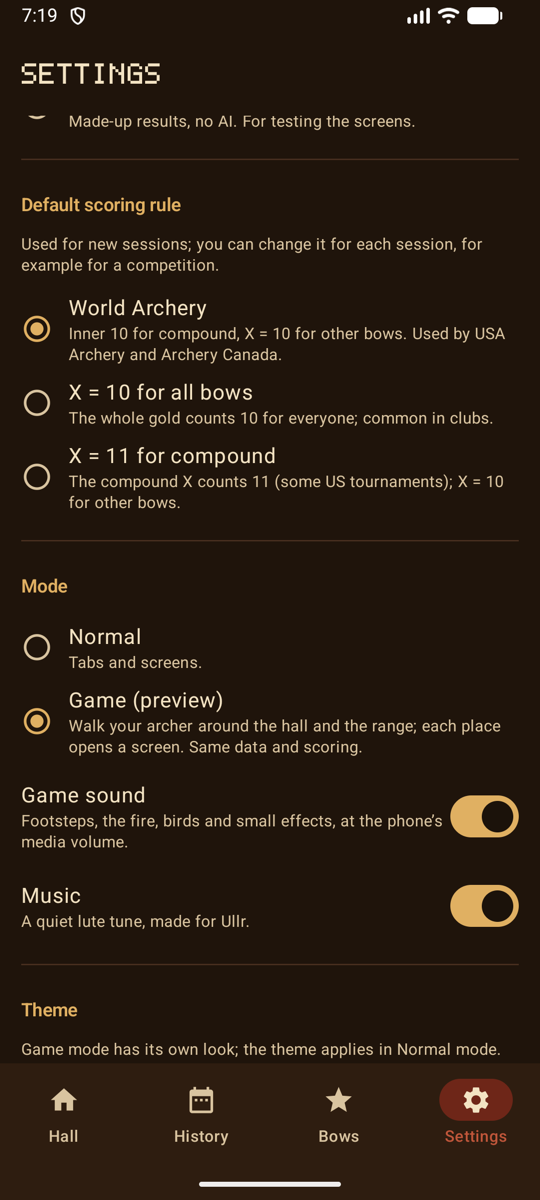
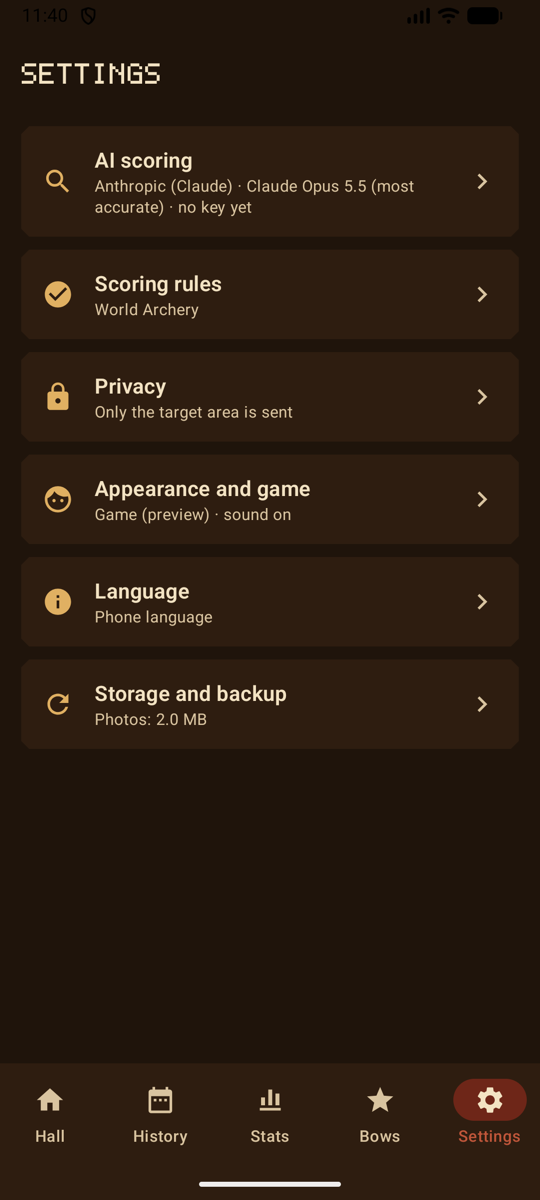
Update Ullr site from ullr@a38a737

diff --git a/ullr/docs/guide.fr.md b/ullr/docs/guide.fr.md
@@ -23,7 +23,7 @@ L'application suit la langue de votre téléphone (français ou anglais). Sur An
 
 ## Choisir la méthode de comptage
 
-**Réglages → Méthode de comptage** :
+**Réglages → Comptage par IA → Méthode de comptage** :
 
 | Méthode | Il vous faut | Fonctionnement |
 |---------|--------------|----------------|
@@ -32,9 +32,9 @@ L'application suit la langue de votre téléphone (français ou anglais). Sur An
 
 ### Choisir le service d'IA
 
-![Réglages : la méthode de comptage, puis le choix du service d'IA, puis la clé du service choisi.](images/screenshots/fr/settings.png){ .shot width="240" }
+![La page Comptage par IA des réglages : ce que fait le comptage, la méthode, puis le choix du service d'IA.](images/screenshots/fr/settings.png){ .shot width="240" }
 
-Avec la méthode API, **Réglages → Service d’IA** propose :
+Avec la méthode API, **Réglages → Comptage par IA → Service d’IA** propose :
 
 | Service | Modèles |
 |---------|---------|
@@ -50,12 +50,12 @@ Chaque service garde sa propre clé : vous pouvez changer de service et revenir 
 - **OpenAI :** créez une clé sur platform.openai.com → API keys. Elle commence par `sk-`.
 - **Google Gemini :** créez une clé dans Google AI Studio (aistudio.google.com → Get API key), dans un projet avec la facturation activée. Elle commence par `AIza`.
 
-Puis, dans Ullr : **Réglages → Clé API** du service, collez la clé, **Enregistrer la clé**, puis **Vérifier la clé**. L'application vous dit si la clé fonctionne.
+Puis, dans Ullr : **Réglages → Comptage par IA → Clé API** du service, collez la clé, **Enregistrer la clé**, puis **Vérifier la clé**. L'application vous dit si la clé fonctionne.
 
 !!! tip "Protégez votre clé"
     Créez une clé réservée à Ullr et fixez une limite de dépenses mensuelle auprès du service. Si vous perdez le téléphone, supprimez la clé chez le service : personne ne pourra dépenser plus que la limite.
 
-La clé est chiffrée sur le téléphone. Elle n'est plus jamais affichée, et **Supprimer la clé** l'efface.
+La clé est chiffrée sur le téléphone. Elle n'est plus jamais affichée, et **Supprimer la clé** l'efface, après confirmation.
 
 **Coût :** vous payez le service directement, une requête par volée. Estimations, en attendant de les mesurer sur de vraies photos :
 
@@ -120,7 +120,7 @@ Chaque flèche porte un repère blanc avec sa zone. Écartez deux doigts pour zo
 - **Cercle orange :** vérifiez cette flèche. Elle est près d'une ligne, l'IA n'était pas sûre, ou deux flèches sont dans le même spot d'un trispot.
 - **Touchez une flèche** pour la sélectionner, puis touchez la bonne zone. Le deuxième choix de l'IA est mis en évidence.
 - **Ajouter une flèche** : touchez le bouton, puis l'endroit de la flèche sur la photo.
-- **Retirer cette flèche** : pour la flèche d'un autre archer, ou une flèche comptée deux fois.
+- **Retirer cette flèche** : pour la flèche d'un autre archer, ou une flèche comptée deux fois. L'application demande d'abord confirmation.
 - Un bandeau vous prévient quand le nombre de flèches trouvées n'est pas le nombre tiré, ou quand la photo pose problème (reflet, flou, blason coupé).
 
 Touchez ensuite **Valider · volée suivante** pour revenir directement à l'appareil photo, ou **Valider et revenir à la séance**.
@@ -159,7 +159,7 @@ Touchez ensuite **Valider · volée suivante** pour revenir directement à l'app
 
 **Règle de la ligne (toutes les règles) :** une flèche qui touche la ligne entre deux zones prend la zone la plus haute. Une flèche dans le 8 qui touche la ligne du 9 vaut 9.
 
-**Réglages → Règle de comptage par défaut** fixe la règle des nouvelles séances : **World Archery** (10 intérieur pour l'arc à poulies, X = 10 pour les autres arcs ; par défaut), **X = 10 pour tous les arcs**, ou **X = 11 pour l'arc à poulies**.
+**Réglages → Règles de comptage** fixe la règle des nouvelles séances : **World Archery** (10 intérieur pour l'arc à poulies, X = 10 pour les autres arcs ; par défaut), **X = 10 pour tous les arcs**, ou **X = 11 pour l'arc à poulies**.
 
 ## Statistiques
 
@@ -186,7 +186,7 @@ L’onglet **Stats** (en mode jeu, l’**âtre**) montre ce qui compte à l’en
 
 <div class="shots" markdown>
 <figure markdown>
-![Liste des arcs : un arc recourbé et deux arcs à poulies avec puissance, allonge et valeurs par défaut.](images/screenshots/fr/bows.png){ .shot }
+![Liste des arcs : deux arcs recourbés et deux arcs à poulies, chacun marqué d’un petit dessin de son type, avec puissance, allonge et valeurs par défaut.](images/screenshots/fr/bows.png){ .shot }
 <figcaption>Vos arcs</figcaption>
 </figure>
 <figure markdown>
@@ -197,16 +197,18 @@ L’onglet **Stats** (en mode jeu, l’**âtre**) montre ce qui compte à l’en
 
 L'onglet **Arcs** liste vos arcs.
 
-- **Ajouter un arc :** nom et type d'arc. Pour un arc à poulies, vous pouvez partir d'une marque et d'un modèle du catalogue (PSE, Hoyt, Mathews, Bowtech). Il remplit le nom, montre les caractéristiques du modèle, et vous prévient si votre allonge sort de sa plage.
+- **Ajouter un arc :** nom et type d'arc. Chaque type a un petit dessin (arc nu ; arc recourbé avec viseur et stabilisateur ; arc à poulies avec ses cames) qui marque l'arc dans les listes, et le râtelier du jeu montre les mêmes formes. Pour un arc à poulies, vous pouvez partir d'une marque et d'un modèle du catalogue (PSE, Hoyt, Mathews, Bowtech). Il remplit le nom, montre les caractéristiques du modèle, et vous prévient si votre allonge sort de sa plage.
 - **Puissance** (lb) et **allonge** (pouces). Les deux acceptent une virgule ou un point.
 - **Description des flèches**, par exemple « tubes noirs, plumes orange ». Elle est envoyée avec la photo pour que l'IA ignore les flèches des autres archers sur la même butte.
 - **Valeurs par défaut :** blason, blasons sur la butte, distance et flèches par volée, pour remplir les nouvelles séances.
 
-Modifier un arc plus tard ne change pas les séances passées.
+Modifier un arc plus tard ne change pas les séances passées. **Retirer cet arc** demande d'abord confirmation ; les séances passées avec cet arc sont conservées.
+
+**Rien n'est supprimé sans votre accord.** Retirer un arc, une clé ou une flèche, supprimer une volée ou une séance, libérer de l'espace et restaurer un export demandent tous une confirmation, en mode normal comme en mode jeu. **Garder** annule.
 
 ## Mode jeu
 
-**Réglages → Mode → Jeu (aperçu)** transforme Ullr en petit jeu en pixel art : votre archer se rend au râtelier, au mur des trophées, au bureau ou à la ligne de tir pour ouvrir vos arcs, votre historique, les réglages ou une séance. **Endroits** (☰) ouvre n’importe quel endroit sans marcher, et **Tirer maintenant** ouvre directement l’appareil photo. Au **miroir**, habillez votre archer et choisissez un compagnon. Le son joue au volume multimédia ; le bouton haut-parleur le coupe. Tous les détails : [Mode jeu](game.md).
+**Réglages → Apparence et jeu → Jeu (aperçu)** transforme Ullr en petit jeu en pixel art : votre archer se rend au râtelier, au mur des trophées, au bureau ou à la ligne de tir pour ouvrir vos arcs, votre historique, les réglages ou une séance. **Endroits** (☰) ouvre n’importe quel endroit sans marcher, et **Tirer maintenant** ouvre directement l’appareil photo. Au **miroir**, habillez votre archer et choisissez un compagnon. Le son joue au volume multimédia ; le bouton haut-parleur le coupe. Tous les détails : [Mode jeu](game.md).
 
 ![La maison en mode jeu.](images/screenshots/fr/game-hall.png){ .shot width="220" }
 
@@ -251,4 +253,4 @@ Modifier un arc plus tard ne change pas les séances passées.
 
 **L'application s'est fermée pendant une séance.** Rien n'est perdu. La séance apparaît au tableau de bord avec **Reprendre**, et les volées en attente sont remises en file.
 
-**Quelle place prennent les photos ?** Environ 0,6 à 1,2 Mo par volée. **Réglages → Stockage** affiche le total.
+**Quelle place prennent les photos ?** Environ 0,6 à 1,2 Mo par volée. **Réglages → Stockage et sauvegarde** affiche le total.

diff --git a/ullr/docs/guide.md b/ullr/docs/guide.md
@@ -23,7 +23,7 @@ The app follows your phone's language (English or French). On Android 13 and lat
 
 ## Choose how ends are scored
 
-**Settings → Scoring method** (*Méthode de comptage*):
+**Settings → AI scoring → Scoring method** (*Réglages → Comptage par IA → Méthode de comptage*):
 
 | Method | You need | How it works |
 |--------|----------|--------------|
@@ -32,9 +32,9 @@ The app follows your phone's language (English or French). On Android 13 and lat
 
 ### Choose the AI service
 
-![Settings: scoring method, then the choice of AI service, then the key for the chosen service.](images/screenshots/settings.png){ .shot width="240" }
+![The AI scoring page of Settings: what scoring does, the scoring method, then the choice of AI service.](images/screenshots/settings.png){ .shot width="240" }
 
-With the API method, **Settings → AI service** (*Service d’IA*) offers:
+With the API method, **Settings → AI scoring → AI service** (*Service d’IA*) offers:
 
 | Service | Models |
 |---------|--------|
@@ -50,12 +50,12 @@ Each service keeps its own key, so you can switch and come back without typing a
 - **OpenAI:** create a key at platform.openai.com → API keys. It starts with `sk-`.
 - **Google Gemini:** create a key in Google AI Studio (aistudio.google.com → Get API key), in a project with billing turned on. It starts with `AIza`.
 
-Then, in Ullr: **Settings → API key** for that service, paste the key, **Save key** (*Enregistrer la clé*), and **Check key** (*Vérifier la clé*). The app tells you whether the key works.
+Then, in Ullr: **Settings → AI scoring → API key** for that service, paste the key, **Save key** (*Enregistrer la clé*), and **Check key** (*Vérifier la clé*). The app tells you whether the key works.
 
 !!! tip "Protect your key"
     Create a key just for Ullr, and set a low monthly spending limit with the service. If the phone is lost, delete the key there, and nobody can spend more than the limit.
 
-The key is stored encrypted on the phone. It is never shown again, and **Remove key** (*Supprimer la clé*) deletes it.
+The key is stored encrypted on the phone. It is never shown again, and **Remove key** (*Supprimer la clé*) deletes it, after asking.
 
 **Cost:** you pay the service directly, one request per end. Rough estimates until they are measured on real photos:
 
@@ -120,7 +120,7 @@ Each arrow has a white marker with its ring. Pinch to zoom, drag to move, double
 - **Amber circle:** check this arrow. It's near a line, the AI wasn't confident, or two arrows are in the same spot of a 3-spot face.
 - **Tap an arrow** to select it, then tap the right ring. The AI's second choice is highlighted.
 - **Add an arrow** (*Ajouter une flèche*): tap the button, then tap where the arrow is on the photo.
-- **Remove this arrow** (*Retirer cette flèche*): for another archer's arrow, or one counted twice.
+- **Remove this arrow** (*Retirer cette flèche*): for another archer's arrow, or one counted twice. The app asks first.
 - A banner warns you when the number of arrows found isn't the number shot, or when the photo has problems (glare, blur, face cut off).
 
 Then tap **Confirm · shoot next end** (*Valider · volée suivante*) to go straight back to the camera, or **Confirm and back to session**.
@@ -159,7 +159,7 @@ Then tap **Confirm · shoot next end** (*Valider · volée suivante*) to go stra
 
 **Line rule (all rules):** an arrow that touches the line between two zones scores the higher zone. An arrow in the 8 that touches the 8/9 line is a 9.
 
-**Settings → Default scoring rule** sets the rule new sessions start with: **World Archery** (inner 10 for compound, X = 10 for other bows; the default), **X = 10 for all bows**, or **X = 11 for compound**.
+**Settings → Scoring rules** (*Règles de comptage*) sets the rule new sessions start with: **World Archery** (inner 10 for compound, X = 10 for other bows; the default), **X = 10 for all bows**, or **X = 11 for compound**.
 
 ## Statistics
 
@@ -186,7 +186,7 @@ The **Stats** tab (in game mode, the **hearth**) shows what matters in training 
 
 <div class="shots" markdown>
 <figure markdown>
-![Bows list: a recurve and two compound bows with draw weight, draw length and defaults.](images/screenshots/bows.png){ .shot }
+![Bows list: two recurve and two compound bows, each marked with a small drawing of its type, with draw weight, draw length and defaults.](images/screenshots/bows.png){ .shot }
 <figcaption>Your bows</figcaption>
 </figure>
 <figure markdown>
@@ -197,16 +197,18 @@ The **Stats** tab (in game mode, the **hearth**) shows what matters in training 
 
 The **Bows** tab (*Arcs*) lists your bows.
 
-- **Add a bow:** name and bow type. For a compound, you can start from a brand and model in the built-in catalog (PSE, Hoyt, Mathews, Bowtech). It fills in the name, shows the model's specs, and warns you if your draw length is outside the model's range.
+- **Add a bow:** name and bow type. Each type has a small drawing (barebow; recurve with sight and stabilizer; compound with cams) that marks the bow in lists, and the game's bow rack shows the same shapes. For a compound, you can start from a brand and model in the built-in catalog (PSE, Hoyt, Mathews, Bowtech). It fills in the name, shows the model's specs, and warns you if your draw length is outside the model's range.
 - **Draw weight** (lb) and **draw length** (inches). Both accept a comma or a dot.
 - **Arrow description**, for example "black shafts, orange fletching". It's sent with the photo so the AI ignores other archers' arrows on the same boss.
 - **Defaults:** target face, paper faces, distance and arrows per end, used to fill in new sessions.
 
-Changing a bow later doesn't change past sessions.
+Changing a bow later doesn't change past sessions. **Remove this bow** asks first; past sessions shot with it are kept.
+
+**Nothing is removed without asking.** Removing a bow, a key or an arrow, deleting an end, discarding a session, freeing up space and restoring an export all ask for confirmation first, in normal and game mode. **Keep** (*Garder*) cancels.
 
 ## Game mode
 
-**Settings → Mode → Game (preview)** turns Ullr into a small pixel-art game: your archer walks to the bow rack, the trophy wall, the desk or the shooting line to open your bows, history, settings or a session. **Places** (☰) opens any place without walking, and **Shoot now** goes straight to the camera. At the **mirror**, dress your archer and choose a companion. Sound plays at the media volume; the speaker button turns it off. Full details: [Game mode](game.md).
+**Settings → Appearance and game → Game (preview)** turns Ullr into a small pixel-art game: your archer walks to the bow rack, the trophy wall, the desk or the shooting line to open your bows, history, settings or a session. **Places** (☰) opens any place without walking, and **Shoot now** goes straight to the camera. At the **mirror**, dress your archer and choose a companion. Sound plays at the media volume; the speaker button turns it off. Full details: [Game mode](game.md).
 
 ![The hall in game mode.](images/screenshots/game-hall.png){ .shot width="220" }
 
@@ -251,4 +253,4 @@ Changing a bow later doesn't change past sessions.
 
 **The app was closed during a session.** Nothing is lost. The session shows on the Dashboard with **Resume**, and ends waiting to be scored are queued again.
 
-**How much space do photos take?** About 0.6–1.2 MB per end. **Settings → Storage** shows the total.
+**How much space do photos take?** About 0.6–1.2 MB per end. **Settings → Storage and backup** shows the total.

diff --git a/ullr/docs/game.fr.md b/ullr/docs/game.fr.md
@@ -2,7 +2,7 @@
 
 Ullr s’utilise aussi autrement : **la même application, en petit jeu vidéo en pixel art.** Votre archer se promène dans une maison nordique et sur un pas de tir, et chaque endroit ouvre un écran. Vos arcs, vos séances et vos scores sont exactement les mêmes qu’en mode normal, et les écrans de comptage fonctionnent de la même façon.
 
-Activez-le dans **Réglages → Mode → Jeu (aperçu)**. **Normal** revient en arrière à tout moment, sans rien perdre.
+Activez-le dans **Réglages → Apparence et jeu → Jeu (aperçu)**. **Normal** revient en arrière à tout moment, sans rien perdre.
 
 <div class="shots" markdown>
 <figure markdown>
@@ -29,7 +29,7 @@ Activez-le dans **Réglages → Mode → Jeu (aperçu)**. **Normal** revient en 
 
 | Dans la maison | Ouvre |
 |----------------|-------|
-| **Râtelier à arcs** (vos propres arcs y sont accrochés, selon leur type) | Vos arcs |
+| **Râtelier à arcs** (vos propres arcs y sont accrochés, chacun dessiné selon son type : arc nu, arc recourbé avec viseur et stabilisateur, arc à poulies avec ses cames ; votre archer tient le même type) | Vos arcs |
 | **Mur des trophées** | Vos trophées : niveau, insignes et records personnels |
 | **Bureau** | Les réglages |
 | **Miroir** | Votre archer |
@@ -104,7 +104,7 @@ Seul le vrai tir rapporte : **10 points d’expérience** par volée confirmée,
 Des pas sur le plancher et dans l’herbe, un petit son quand vous choisissez un endroit, un carillon quand il s’ouvre, le grincement de la porte, le crépitement du feu dans la maison, le vent et les oiseaux sur le pas de tir, et un petit air de luth. Tout a été composé pour Ullr.
 
 - Le son joue au volume **multimédia** du téléphone, comme les autres jeux : les modes silencieux et vibreur coupent les appels et les notifications, pas les jeux.
-- Le **bouton haut-parleur**, en haut du jeu, coupe et remet le son. **Réglages → Sons du jeu** et **Musique** les coupent séparément.
+- Le **bouton haut-parleur**, en haut du jeu, coupe et remet le son. **Réglages → Apparence et jeu → Sons du jeu** et **Musique** les coupent séparément.
 - Le son s’arrête dès que l’application passe en arrière-plan.
 
 ## Tous les écrans au style du jeu
@@ -121,8 +121,8 @@ En mode jeu, chaque écran prend le style du jeu : bois sombre et or, lettres en
 <figcaption>Vos arcs</figcaption>
 </figure>
 <figure markdown>
-![Réglages au style du jeu : Mode Normal ou Jeu (aperçu), et les interrupteurs Sons du jeu et Musique.](images/screenshots/fr/game-settings.png){ .shot }
-<figcaption>Mode, sons et musique</figcaption>
+![Réglages au style du jeu : un menu Comptage par IA, Règles de comptage, Confidentialité, Apparence et jeu, Langue, et Stockage et sauvegarde.](images/screenshots/fr/game-settings.png){ .shot }
+<figcaption>Les réglages, regroupés par thème</figcaption>
 </figure>
 </div>
 

diff --git a/ullr/docs/game.md b/ullr/docs/game.md
@@ -2,7 +2,7 @@
 
 Ullr has a second way to use it: **the same app, as a small pixel-art video game.** Your archer walks around a Norse hall and an archery range, and each place opens a screen. Your bows, sessions and scores are exactly the same as in the normal mode, and the scoring screens work the same way.
 
-Turn it on in **Settings → Mode → Game (preview)** (*Réglages → Mode → Jeu (aperçu)*). **Normal** switches back at any time; nothing is lost either way.
+Turn it on in **Settings → Appearance and game → Game (preview)** (*Réglages → Apparence et jeu → Jeu (aperçu)*). **Normal** switches back at any time; nothing is lost either way.
 
 <div class="shots" markdown>
 <figure markdown>
@@ -29,7 +29,7 @@ Turn it on in **Settings → Mode → Game (preview)** (*Réglages → Mode → 
 
 | In the hall | Opens |
 |-------------|-------|
-| **Bow rack** (your own bows hang on it, by type) | Your bows |
+| **Bow rack** (your own bows hang on it, each drawn as its type: barebow, recurve with sight and stabilizer, compound with cams; your archer holds the same type) | Your bows |
 | **Trophy wall** | Your trophies: level, badges and personal bests |
 | **Writing desk** | Settings |
 | **Mirror** | Your archer |
@@ -104,7 +104,7 @@ Only real shooting earns anything: **10 experience** for each confirmed end, **3
 Footsteps on the wooden floor and on the grass, a small blip when you choose a place, a chime when it opens, the creak of the door, the crackle of the fire in the hall, wind and birds on the range, and a quiet lute tune. All of it was made for Ullr.
 
 - Sound plays at the phone's **media** volume, like other games: silent and vibrate mute calls and notifications, not games.
-- The **speaker button** at the top of the game turns the sound off and on. **Settings → Game sound** and **Music** turn them off separately.
+- The **speaker button** at the top of the game turns the sound off and on. **Settings → Appearance and game → Game sound** and **Music** turn them off separately.
 - Sound stops as soon as the app is in the background.
 
 ## Every screen in the game look
@@ -121,8 +121,8 @@ In game mode, every screen wears the game's style: dark wood and gold, pixel let
 <figcaption>Your bows</figcaption>
 </figure>
 <figure markdown>
-![Settings in the game look: Mode Normal or Game (preview), and the Game sound and Music switches.](images/screenshots/game-settings.png){ .shot }
-<figcaption>Mode, sound and music</figcaption>
+![Settings in the game look: a menu of AI scoring, Scoring rules, Privacy, Appearance and game, Language, and Storage and backup.](images/screenshots/game-settings.png){ .shot }
+<figcaption>Settings, grouped by topic</figcaption>
 </figure>
 </div>
 

diff --git a/ullr/docs/screenshots.md b/ullr/docs/screenshots.md
@@ -43,7 +43,7 @@ Taken with **Ullr Demo**, a version of the app filled with six months of made-up
 <figcaption><b>History.</b> Every session by month, filtered by bow.</figcaption>
 </figure>
 <figure markdown>
-![Bows list: a recurve and two compound bows with draw weight, draw length and defaults.](images/screenshots/bows.png){ .shot }
+![Bows list: two recurve and two compound bows, each marked with a small drawing of its type, with draw weight, draw length and defaults.](images/screenshots/bows.png){ .shot }
 <figcaption><b>Bows.</b> Each bow with its setup.</figcaption>
 </figure>
 <figure markdown>
@@ -56,11 +56,11 @@ Taken with **Ullr Demo**, a version of the app filled with six months of made-up
 
 <div class="shots" markdown>
 <figure markdown>
-![Settings: scoring method AI service API, and the choice of service.](images/screenshots/settings.png){ .shot }
+![The AI scoring page of Settings: what scoring does, then the scoring method and the choice of service.](images/screenshots/settings.png){ .shot }
 <figcaption><b>Choice of AI.</b> The service of your choice, with your own key.</figcaption>
 </figure>
 <figure markdown>
-![Settings privacy section: the send only the target area switch, and what is sent and never sent.](images/screenshots/settings-privacy.png){ .shot }
+![The Privacy page of Settings: what leaves the phone, the send only the target area switch, and what is sent and never sent.](images/screenshots/settings-privacy.png){ .shot }
 <figcaption><b>Privacy.</b> Exactly what is sent, and the target-only switch.</figcaption>
 </figure>
 </div>
@@ -106,8 +106,8 @@ Taken with **Ullr Demo**, a version of the app filled with six months of made-up
 <figcaption><b>In the game look.</b> Pixel titles and scores.</figcaption>
 </figure>
 <figure markdown>
-![Settings: mode, game sound and music.](images/screenshots/game-settings.png){ .shot }
-<figcaption><b>Mode, sound and music.</b></figcaption>
+![Settings in the game look: a menu of AI scoring, Scoring rules, Privacy, Appearance and game, Language, and Storage and backup.](images/screenshots/game-settings.png){ .shot }
+<figcaption><b>Settings, grouped by topic.</b></figcaption>
 </figure>
 </div>
 

diff --git a/ullr/docs/screenshots.fr.md b/ullr/docs/screenshots.fr.md
@@ -43,7 +43,7 @@ Prises avec **Ullr Demo**, une version de l'application remplie de six mois de s
 <figcaption><b>Historique.</b> Toutes les séances par mois, filtrées par arc.</figcaption>
 </figure>
 <figure markdown>
-![Liste des arcs : un arc recourbé et deux arcs à poulies avec puissance, allonge et valeurs par défaut.](images/screenshots/fr/bows.png){ .shot }
+![Liste des arcs : deux arcs recourbés et deux arcs à poulies, chacun marqué d’un petit dessin de son type, avec puissance, allonge et valeurs par défaut.](images/screenshots/fr/bows.png){ .shot }
 <figcaption><b>Arcs.</b> Chaque arc avec ses réglages.</figcaption>
 </figure>
 <figure markdown>
@@ -56,7 +56,7 @@ Prises avec **Ullr Demo**, une version de l'application remplie de six mois de s
 
 <div class="shots" markdown>
 <figure markdown>
-![Réglages : la méthode API d'un service d'IA, et le choix du service.](images/screenshots/fr/settings.png){ .shot }
+![La page Comptage par IA des réglages : ce que fait le comptage, la méthode API et le choix du service.](images/screenshots/fr/settings.png){ .shot }
 <figcaption><b>Le choix de l'IA.</b> Le service de votre choix, avec votre propre clé.</figcaption>
 </figure>
 <figure markdown>
@@ -106,8 +106,8 @@ Prises avec **Ullr Demo**, une version de l'application remplie de six mois de s
 <figcaption><b>Au style du jeu.</b> Titres et scores en pixels.</figcaption>
 </figure>
 <figure markdown>
-![Réglages : mode, sons du jeu et musique.](images/screenshots/fr/game-settings.png){ .shot }
-<figcaption><b>Mode, sons et musique.</b></figcaption>
+![Réglages au style du jeu : un menu Comptage par IA, Règles de comptage, Confidentialité, Apparence et jeu, Langue, et Stockage et sauvegarde.](images/screenshots/fr/game-settings.png){ .shot }
+<figcaption><b>Les réglages, regroupés par thème.</b></figcaption>
 </figure>
 </div>
 
